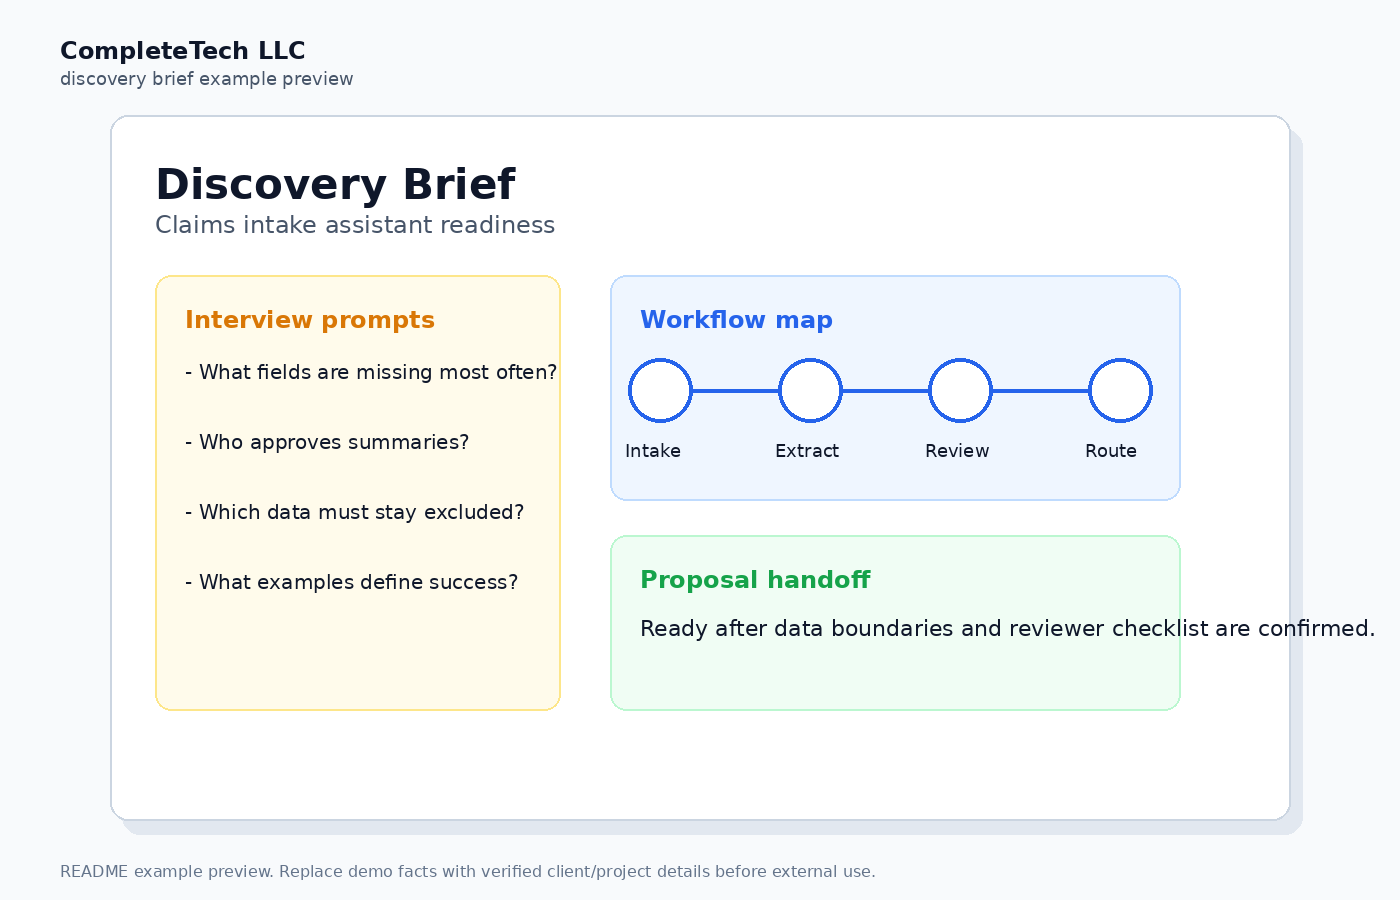
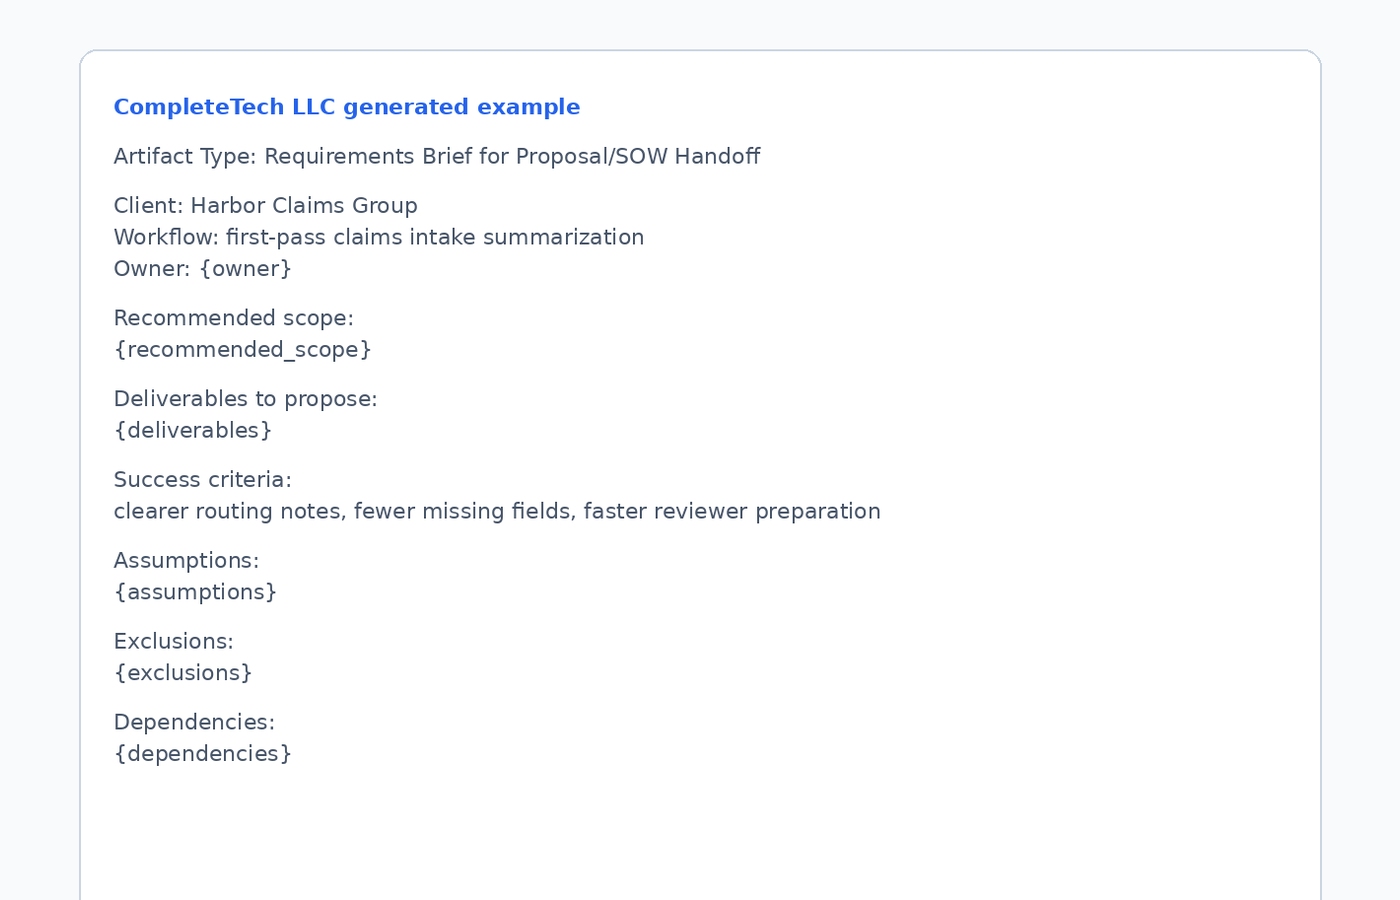
Use generated artifact previews in README

diff --git a/assets/examples/example.md b/assets/examples/example.md
@@ -1,0 +1,23 @@
+Artifact Type: Requirements Brief for Proposal/SOW Handoff
+
+Client: Harbor Claims Group
+Workflow: first-pass claims intake summarization
+Owner: {owner}
+
+Recommended scope:
+{recommended_scope}
+
+Deliverables to propose:
+{deliverables}
+
+Success criteria:
+clearer routing notes, fewer missing fields, faster reviewer preparation
+
+Assumptions:
+{assumptions}
+
+Exclusions:
+{exclusions}
+
+Dependencies:
+{dependencies}

diff --git a/README.md b/README.md
@@ -73,6 +73,8 @@ Rendered artifacts are drafts. Replace placeholders with verified client, workfl
 
 ![Discovery brief preview](assets/examples/example.png)
 
+Preview converted from generated artifact: [example.md](assets/examples/example.md).
+
 **Discovery brief: Claims intake assistant readiness**
 
 ```bash
@@ -82,7 +84,8 @@ python3 scripts/render_discovery.py \
   --var workflow="first-pass claims intake summarization" \
   --var pain="adjusters retype intake notes before routing files" \
   --var approval_gate="licensed adjuster reviews every summary before use" \
-  --var success_criteria="clearer routing notes, fewer missing fields, faster reviewer preparation"
+  --var success_criteria="clearer routing notes, fewer missing fields, faster reviewer preparation" \
+  > assets/examples/example.md
 ```
 
 Example handoff: